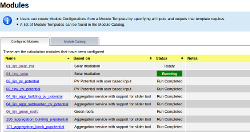
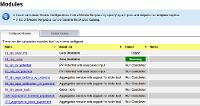
Some improvements for the new homepage

diff --git a/app/assets/stylesheets/home.css.scss b/app/assets/stylesheets/home.css.scss
@@ -4,25 +4,26 @@
 
 
 $tabWidth: 300px;
-$totalWidth: 1100px;
-$panelHeight: 700px;
+$totalWidth: 1200px;
+$panelHeight: 600px;
 $tabHeight: 400px;
 
 // Big task oriented tabs
 #front-page-tabs {
-   padding: 0;
-   font-size: 30px;
+   //padding: 0;
+   font-size: 20px;
    float:left;
    /*width: $tabWidth;*/
 
    border-radius: 5px;
    -moz-box-sizing: border-box;
    box-sizing: border-box;
-   margin: 0 auto;
+   margin: auto;
    margin-left: 50px;      // Indent the whole shebang
    border: 1px solid #DDD;
-   position: relative;
+   //position: relative;
    width: $totalWidth;
+   overflow: visible;
 }
 
 #front-page-tabs .tabs {
@@ -129,7 +130,7 @@ $lineHeight: $panelHeight / 8 - 1px;
    margin-left: 15x;
    margin-right: 15px;
    margin-top: 30px;
-   font-size: 50%;
+   font-size: 30%;
 }
 
 .inner-content-welcome a {
@@ -183,7 +184,7 @@ $textMargin: 20px;
    height: $height;
    margin: 10;
    width: $totalWidth - $tabWidth - $textMargin;
-   padding-left: $textMargin - 2px;
+   //padding-left: $textMargin - 2px;
    
    text-align: justify;
    text-justify: auto;
@@ -222,7 +223,7 @@ $textMargin: 20px;
 #slider1_container {
    position: relative; 
    top: 0px; 
-   left: 30px; 
+   left: 60px; 
    width: 600px; 
    height: 300px;
 }
